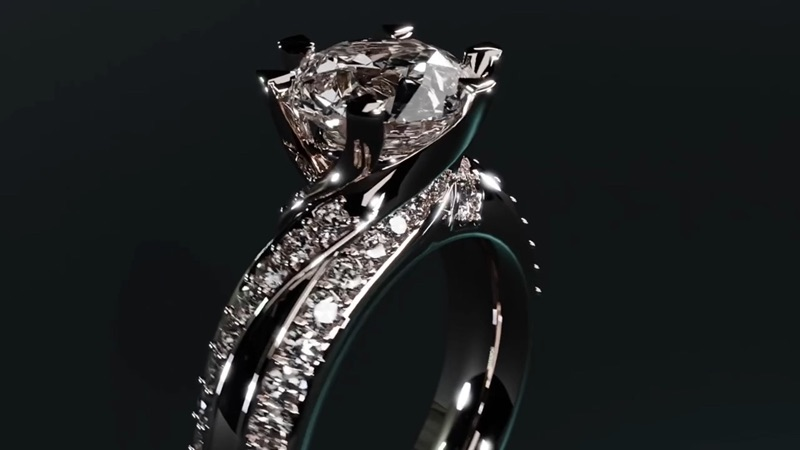
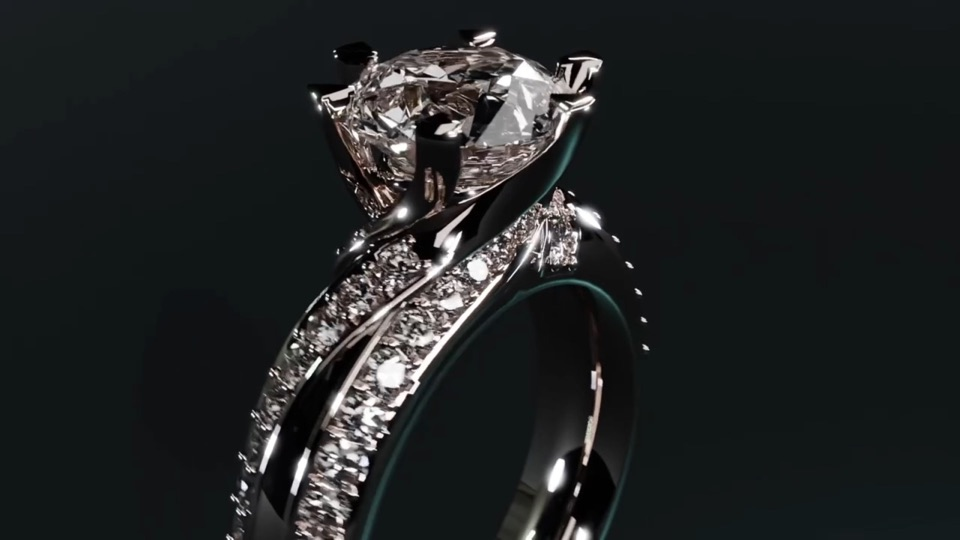
review: Render-Marker in render(), Takt nicht im versteckten Tab starten, lastmod aus git, 960-px-Miniaturen, Rechte nur für deploy

Changed region(s): [[0.5938, 0.0933, 0.625, 0.1244]]

diff --git a/site-v1/assets/js/site.js b/site-v1/assets/js/site.js
@@ -656,7 +656,9 @@
 
     function spacing() { return (cards[0].offsetWidth || 300) * 0.74; }
 
+    var renderedPos = NaN;
     function render() {
+      renderedPos = pos;
       var sp = spacing();
       for (var i = 0; i < cards.length; i++) {
         var c = cards[i];
@@ -756,9 +758,8 @@
       renderedPos = NaN;
     }
 
-    var renderedPos = NaN;
     function frame() {
-      if (visible && !document.hidden) {
+      if (visible) {
         if (!dragging) {
           if (snapTo !== null) {
             var d = snapTo - pos;
@@ -788,7 +789,6 @@
              bewegt (Akku, Lüfter, Layout-Thrashing bei Hover). */
           if (pos !== renderedPos) {
             render();
-            renderedPos = pos;
             updateActive();
           }
         }
@@ -944,6 +944,9 @@
     function stopTimer() { if (timer) { clearInterval(timer); timer = null; } }
     function startTimer() {
       stopTimer();
+      /* Im versteckten Tab nicht weiterschalten — visibilitychange startet
+         den Takt wieder, sobald jemand hinsieht. */
+      if (document.hidden) return;
       timer = setInterval(function () { goTo(current + 1 > last ? 0 : current + 1); }, 4600);
     }
     function setPlaying(v) {

diff --git a/tools/build-projects.py b/tools/build-projects.py
@@ -86,13 +86,13 @@ def derived(path, suffix):
     Die Karussell-Karte spielt eine stumme Vorschau; dafür den vollen
     45-MB-Film zu laden wäre auf Mobilgeräten unzumutbar. Deshalb erzeugt
     tools/media/add-video.sh je Film einen 8-Sekunden-Clip in 640 px und ein
-    800-px-Standbild. projekte.json bleibt davon unberührt: die Ableitung
+    960-px-Standbild. projekte.json bleibt davon unberührt: die Ableitung
     passiert rein über den Dateinamen, damit nichts doppelt gepflegt wird.
     """
-    if not path:
+    if not path or "." not in path:
         return path
-    stem, dot, ext = path.rpartition(".")
-    candidate = f"{stem}{suffix}.{ext}" if dot else f"{path}{suffix}"
+    stem, ext = path.rsplit(".", 1)
+    candidate = f"{stem}{suffix}.{ext}"
     return candidate if (SITE / candidate).is_file() else path
 
 
@@ -127,7 +127,9 @@ def validate(data):
         if p.get("orientation", "landscape") not in ORIENTATION_CLASS:
             errors.append(f"{where}: orientation '{p.get('orientation')}' unbekannt.")
         if p.get("kunde") and (p.get("typ") or TYP_DEFAULT) in NON_CLIENT_TYPES:
-            errors.append(f"{where}: kunde gesetzt, aber typ '{p.get('typ') or TYP_DEFAULT}' ist kein Auftrag.")
+            # Widerspricht meist PORTFOLIO-SPEZIFIKATION §2 — aber Grenzfälle
+            # (Spec Project für eine genannte Marke) sind möglich, also kein Abbruch.
+            warnings.append(f"{where}: kunde gesetzt, obwohl typ '{p.get('typ') or TYP_DEFAULT}' kein Auftrag ist.")
         for lang in ("de", "en"):
             text = p.get(lang)
             if not isinstance(text, dict):
@@ -365,13 +367,18 @@ def sitemap_entries(published, domain):
     for p in published:
         de = f"{domain}/projekte/{p['slug']}.html"
         en = f"{domain}/en/projects/{p['slug']}.html"
-        for loc in (de, en):
+        files = (SITE / "projekte" / f"{p['slug']}.html",
+                 SITE / "en" / "projects" / f"{p['slug']}.html")
+        for loc, file in zip((de, en), files):
+            # Echtes Änderungsdatum statt "heute": sonst ändert jeder Build die
+            # Sitemap, obwohl sich an der Seite nichts getan hat.
+            lastmod = last_change(file) if file.is_file() else datetime.date.today().isoformat()
             out.append(
                 "  <url>\n"
                 f"    <loc>{loc}</loc>\n"
                 f'    <xhtml:link rel="alternate" hreflang="de" href="{de}"/>\n'
                 f'    <xhtml:link rel="alternate" hreflang="en" href="{en}"/>\n'
-                f"    <lastmod>{datetime.date.today().isoformat()}</lastmod>\n"
+                f"    <lastmod>{lastmod}</lastmod>\n"
                 "    <priority>0.8</priority>\n"
                 "  </url>"
             )
@@ -379,8 +386,15 @@ def sitemap_entries(published, domain):
 
 
 def last_change(path):
-    """Datum der letzten Änderung: aus git, sonst Dateisystem."""
+    """Datum der letzten Änderung: heute bei uncommitteten Änderungen, sonst
+    das Datum des letzten Commits, sonst (ohne git) das Dateisystem."""
     try:
+        dirty = subprocess.run(
+            ["git", "status", "--porcelain", "--", str(path)],
+            cwd=ROOT, capture_output=True, text=True, timeout=5,
+        ).stdout.strip()
+        if dirty:
+            return datetime.date.today().isoformat()
         out = subprocess.run(
             ["git", "log", "-1", "--format=%cs", "--", str(path)],
             cwd=ROOT, capture_output=True, text=True, timeout=5,
